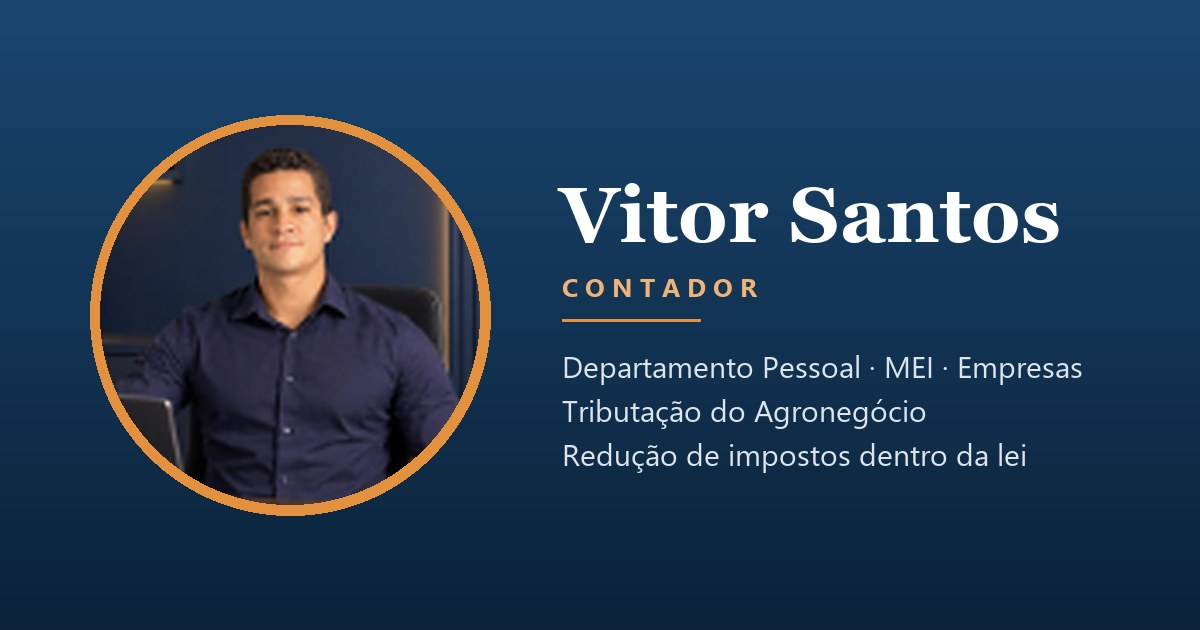
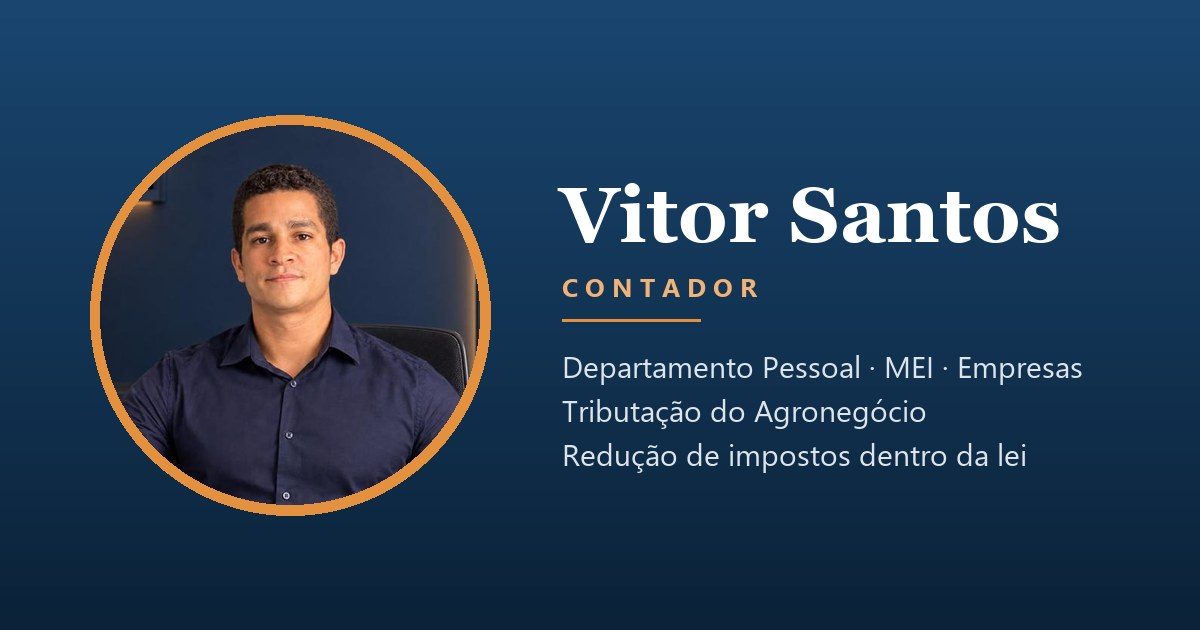
Foto em alta resolução e WhatsApp com o 9º dígito

Changed region(s): [[0.0925, 0.2111, 0.4008, 0.8143], [0.0925, 0.2714, 0.1542, 0.3619], [0.2775, 0.754, 0.3083, 0.7841]]

diff --git a/index.html b/index.html
@@ -31,7 +31,7 @@
     "@type": "AccountingService",
     "name": "Vitor Santos | Contador",
     "description": "Escritório de Contabilidade especializado em Departamento Pessoal, MEI, pequenas a grandes empresas e Tributação do Agronegócio.",
-    "telephone": "+55 99 8430-7693",
+    "telephone": "+55 99 98430-7693",
     "email": "v.s.servicoseconsultoria@gmail.com",
     "image": "https://tanattos18.github.io/Vitor_Santos_Contador/assets/vitor.jpg",
     "url": "https://tanattos18.github.io/Vitor_Santos_Contador/",
@@ -400,7 +400,7 @@
       </div>
 
       <div class="actions">
-        <a class="btn btn-primary js-wa" href="https://wa.me/559984307693" target="_blank" rel="noopener">
+        <a class="btn btn-primary js-wa" href="https://wa.me/5599984307693" target="_blank" rel="noopener">
           <svg><use href="#i-wa"/></svg> Falar no WhatsApp
         </a>
         <div class="row">
@@ -461,9 +461,9 @@
         <h2 class="eyebrow" id="t-contato">Contato</h2>
         <ul class="info">
           <li>
-            <a class="js-wa" href="https://wa.me/559984307693" target="_blank" rel="noopener">
+            <a class="js-wa" href="https://wa.me/5599984307693" target="_blank" rel="noopener">
               <span class="ic"><svg><use href="#i-phone"/></svg></span>
-              <span><span class="label">Telefone / WhatsApp</span><span class="value">(99) 8430-7693</span></span>
+              <span><span class="label">Telefone / WhatsApp</span><span class="value">(99) 98430-7693</span></span>
               <span class="go"><svg><use href="#i-arrow"/></svg></span>
             </a>
           </li>
@@ -522,7 +522,7 @@
     </article>
   </main>
 
-  <a class="fab js-wa" href="https://wa.me/559984307693" target="_blank" rel="noopener" aria-label="Falar no WhatsApp">
+  <a class="fab js-wa" href="https://wa.me/5599984307693" target="_blank" rel="noopener" aria-label="Falar no WhatsApp">
     <svg><use href="#i-wa"/></svg>
   </a>
 
@@ -534,7 +534,7 @@
       nome: "Vitor Santos",
       empresa: "Vitor Santos | Contador",
       cargo: "Contador",
-      telefone: "+559984307693",
+      telefone: "+5599984307693",
       email: "v.s.servicoseconsultoria@gmail.com",
       instagram: "https://www.instagram.com/vitorsantoscontador/",
       endereco: "Av. Pedro Neiva de Santana",
@@ -544,7 +544,7 @@
 
     // Mensagem pronta no WhatsApp
     const msg = encodeURIComponent("Olá, Vitor! Vi seu cartão de apresentação e gostaria de falar sobre contabilidade para minha empresa.");
-    document.querySelectorAll(".js-wa").forEach(a => a.href = "https://wa.me/559984307693?text=" + msg);
+    document.querySelectorAll(".js-wa").forEach(a => a.href = "https://wa.me/5599984307693?text=" + msg);
 
     function toast(text) {
       const t = document.getElementById("toast");
